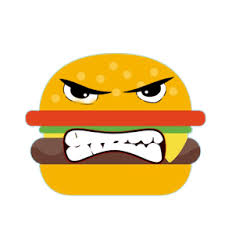
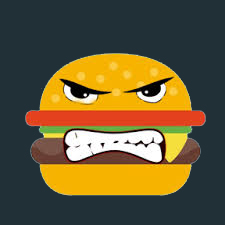
all but meal css completed

diff --git a/hosted/style.css b/hosted/style.css
@@ -4,20 +4,22 @@ html, body {
     margin: 0;
     padding: 0;
     overflow-x: hidden;
+    background: #213037;
+    color: #2B898B;
 }
 
 #logo {
-    height: 40px;
-    width: 40;
-    padding-top: 5px;
+    height: 45px;
+    width: 45px;
+    padding: 12px;
     float:left;
-    border-radius: 8px;
+    border-radius: 25px;
 }
 
 nav {
     width: 100%;
-    height: 50px;
-    background-color: #55acee;
+    height: 70px;
+    background-color: #26704F;
 }
 
 nav:nth-child(1) {
@@ -26,11 +28,11 @@ nav:nth-child(1) {
 
 .navlink {
     padding: 5px;
-    padding-top: 12px;
+    padding-top: 20px;
     padding-left: 20px;
     color: white;
     font-size: 1.3em;
-    float: left;
+    float: right;
 }
 
 .navlink a, .navlink a:link, .navlink a:visited, .navlink a:hover, .navlink a:active {
@@ -38,22 +40,33 @@ nav:nth-child(1) {
     text-decoration: none;
     padding: 5px;
     border-radius: 4px;
-    background-color: #55acee;
+    background-color: #26704F;
+    color: #FAB735;
     transition: background-color 0.4s ease;
+}
+
+.navtitle{
+    position: absolute;
+    width: 20%;
+    font-size: 30px;
+    margin-left: 80px;
+    margin-top: 15px;
+    color: #FAB735;
 }
 
 .navlink a:hover {
     transition: background-color 0.8s ease;
-    background-color: #66bdff;
+    background-color: #FAB735;
+    color: #26704F;
 }
 
 .mealForm {
-    border: 2px solid #338acc;
+    border: 2px solid #FAB735;
     height: 35px;
-    width: 100%;
+    width: auto;
     margin-top:0px;
     padding-top:10px;
-    background-color: #55acee;
+    background-color: #213037;
     border-bottom-right-radius: 4px;
     border-top-right-radius: 4px;
 }
@@ -73,14 +86,20 @@ nav:nth-child(1) {
     float:left;
 }
 
+#time{
+    padding: 2px;
+}
+
 .makeMealSubmit {
     transition: background-color 0.4s ease;
     display: inline;
-    width: 90px;
-    background-color: #55acee;
-    border-radius: 2px;
-    color: white;
+    background-color: #FAB735;
+    border: 1px solid #26704F;
+    color: #213037;
+    margin-left: 10px;
     text-decoration: none;
+    font-weight: bold;
+    padding: 5px;
 }
 
 .makeMealSubmit:link, .makeMealSubmit:visited, .makeMealSubmit:hover, .makeMealSubmit:active {
@@ -89,7 +108,8 @@ nav:nth-child(1) {
 
 .makeMealSubmit:hover {
     transition: background-color 0.4s ease;
-    background-color: #338acc;
+    background-color: #26704F;
+    border-color: #FAB735;
 }
 
 .mainForm {
@@ -120,11 +140,10 @@ nav:nth-child(1) {
     margin-top: 14px;
     font-size: 1.2em;
     width: 100px;
-    background-color: #55acee;
-    border-radius: 2px;
-    border-color: #66acee;
+    background-color: #FAB735;
+    border: 1px solid #26704F;
     padding: 3px 0px;
-    color: white;
+    color: #213037;
     text-decoration: none;
 }
 
@@ -134,7 +153,8 @@ nav:nth-child(1) {
 
 .formSubmit:hover {
     transition: background-color 0.4s ease;
-    background-color: #338acc;
+    background-color: #26704F;
+    border-color: #FAB735;
 }
 
 #user, #pass, #pass2 {
@@ -194,7 +214,7 @@ nav:nth-child(1) {
 #meals {
     width: 40%;
     min-width: 400px;
-    border: 2px solid #55acee;
+    border: 2px solid #26704F;
     border-radius: 4px;
     margin: 0 auto;
     margin-top: 100px;
@@ -205,7 +225,7 @@ nav:nth-child(1) {
     margin: 0 auto;
     margin-top: 2px;
     margin-bottom: 2px;
-    border: 2px solid #55acee;
+    border: 2px solid #FAB735;
     border-radius: 4px;
     background-color: #55acee;
     padding: 10px;
@@ -215,9 +235,8 @@ nav:nth-child(1) {
 
 .meal:hover {
     transition: border-color 0.2s ease-out;
-    border-color: rgba(255,255,255, 0.8);
-    transition: background-color 2.6s ease-out;
-    background-color: #66bfff;
+    transition: background-color 0.2s ease-out;
+    background-color: #213037;
 }
 
 img.mealImg {

diff --git a/server/controllers/Account.js b/server/controllers/Account.js
@@ -19,7 +19,7 @@ const login = (request, response) => {
     const password = `${req.body.pass}`;
 
     if(!username || !password){
-        return res.status(400).json({error: 'RAWR! All fields required'});
+        return res.status(400).json({error: 'All fields required'});
     }
 
     return Account.AccountModel.authenticate(username, password, (err, account) => {
@@ -42,11 +42,11 @@ const signup = (request, response) => {
     req.body.pass2 = `${req.body.pass2}`;
 
     if(!req.body.username || !req.body.pass || !req.body.pass2){
-        return res.status(400).json({error: 'RAWR! All fields are required'});
+        return res.status(400).json({error: 'All fields are required'});
     }
 
     if(req.body.pass !== req.body.pass2){
-        return res.status(400).json({error: 'RAWR! Passwords do not match'});
+        return res.status(400).json({error: 'Passwords do not match'});
     }
 
     return Account.AccountModel.generateHash(req.body.pass, (salt, hash) => {

diff --git a/hosted/loginBundle.js b/hosted/loginBundle.js
@@ -6,7 +6,7 @@ var handleLogin = function handleLogin(e) {
     $('#mealMessage').animate({ width: 'hide' }, 350);
 
     if ($('#user').val() == '' || $('#pass').val() == '') {
-        handleError('Rawr! username or pass is empty');
+        handleError('Username or pass is empty');
         return false;
     }
 
@@ -23,12 +23,12 @@ var handleSignup = function handleSignup(e) {
     $('#mealMessage').animate({ width: 'hide' }, 350);
 
     if ($('#user').val() == '' || $('#pass').val() == '' || $('#pass2').val() == '') {
-        handleError('Rawr! username or pass is empty');
+        handleError('Username or pass is empty');
         return false;
     }
 
     if ($('#pass').val() !== $('#pass2').val()) {
-        handleError('Rawr! Passwords do not match');
+        handleError('Passwords do not match');
         return false;
     }
 

diff --git a/client/login/client.js b/client/login/client.js
@@ -4,7 +4,7 @@ const handleLogin = (e) => {
     $('#mealMessage').animate({width: 'hide'}, 350);
 
     if($('#user').val() == '' || $('#pass').val() == ''){
-        handleError('Rawr! username or pass is empty');
+        handleError('Username or pass is empty');
         return false;
     }
 
@@ -21,12 +21,12 @@ const handleSignup = (e) => {
     $('#mealMessage').animate({width: 'hide'}, 350);
 
     if($('#user').val() == '' || $('#pass').val() == '' || $('#pass2').val() == ''){
-        handleError('Rawr! username or pass is empty');
+        handleError('Username or pass is empty');
         return false;
     }
 
     if($('#pass').val() !== $('#pass2').val()){
-        handleError('Rawr! Passwords do not match');
+        handleError('Passwords do not match');
         return false;
     }
 

diff --git a/hosted/bundle.js b/hosted/bundle.js
@@ -83,7 +83,7 @@ var MealForm = function MealForm(props) {
             )
         ),
         React.createElement('input', { type: 'hidden', id: 'token', name: '_csrf', value: props.csrf }),
-        React.createElement('input', { className: 'makeMealSubmit', type: 'submit', value: 'Make meal' })
+        React.createElement('input', { className: 'makeMealSubmit', type: 'submit', value: 'Make Meal' })
     );
 };
 

diff --git a/client/app/maker.js b/client/app/maker.js
@@ -47,7 +47,7 @@ const MealForm = (props) => {
                 <option value='snack' selected>Snack</option>
             </select> 
             <input type='hidden' id='token' name='_csrf' value={props.csrf}/>
-            <input className='makeMealSubmit' type='submit' value='Make meal'/>
+            <input className='makeMealSubmit' type='submit' value='Make Meal'/>
         </form>
     );
 };
